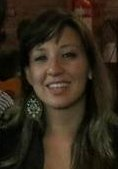
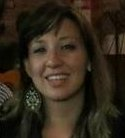
Experimentando media queries

diff --git a/index.html b/index.html
@@ -27,9 +27,6 @@
         <script src="js/vendor/modernizr-2.6.2-respond-1.1.0.min.js"></script>
     </head>
     <body>
-        <!--[if lt IE 7]>
-            <p class="chromeframe">You are using an <strong>outdated</strong> browser. Please <a href="http://browsehappy.com/">upgrade your browser</a> or <a href="http://www.google.com/chromeframe/?redirect=true">activate Google Chrome Frame</a> to improve your experience.</p>
-        <![endif]-->
 
 <!--**************************************************************************************************
 http://scal.io -- check us out.
@@ -45,7 +42,7 @@ http://scal.io -- check us out.
 ****************************************************************************************************-->
 
         <div id="bg-image">
-            <img src="img/caioevanessa2.jpg" alt="bg" />
+           <div id="bg-image-inner"></div>
         </div>
 
         <div id="bg-container">
@@ -289,14 +286,14 @@ http://scal.io -- check us out.
                           sermos mal-educados com aqueles que nos
                           querem bem, disponibilizamos esse botãozinho
                           de doação, aceitamos de 5 a 50000 reais de
-                          qualquer um que tenha bom coração e um
-                          cartão de crédtio. Quem fizer questão de dar
-                          um presente mesmo, converse com a gente,
-                          sempre tem algo que podemos precisar nessa
-                          vida nômade. E com sinceridade dizemos:
-                          queremos mesmo vocês nas nossas celebrações,
-                          rindo e bebendo com a gente, sem nenhuma
-                          necessidade de presente ou doação. </p>
+                          qualquer alma caridosa. Quem fizer questão
+                          de dar um presente mesmo, converse com a
+                          gente, sempre tem algo que podemos precisar
+                          nessa vida nômade. E com sinceridade
+                          dizemos: queremos mesmo vocês nas nossas
+                          celebrações, rindo e bebendo com a gente,
+                          sem nenhuma necessidade de presente ou
+                          doação. </p>
 <center>
  <!-- INICIO FORMULARIO BOTAO PAGSEGURO -->
 <form action="https://pagseguro.uol.com.br/checkout/v2/donation.html" method="post">

diff --git a/css/main-1.6.css b/css/main-1.6.css
@@ -229,7 +229,7 @@ nav ul li a::-moz-focus-inner {border:0;}
 
 
 
-/* ==============
+* ==============
     MOBILE: Main
    ============== */
 
@@ -263,7 +263,7 @@ body {
     width: 200%; 
     height: 200%;
 }
-#bg-image img {
+#bgImageInner {
     position: absolute; 
     top: 0; 
     left: 0; 
@@ -272,8 +272,14 @@ body {
     margin: auto; 
     min-width: 50%;
     min-height: 50%;
+    background: url('img/caiovanessa2.jpg');
 }
 
+@media (max-width: 600px) {
+  #bgImageInner {      
+     background: url('img/caiovanessa3.jpg');
+  }
+}
 #bg-container {
 
 }
